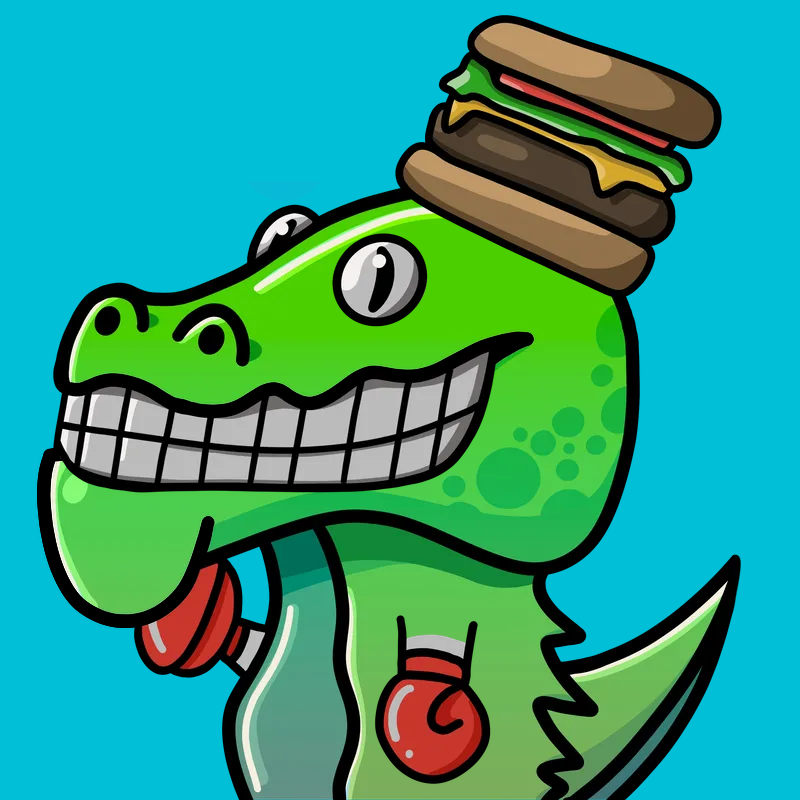
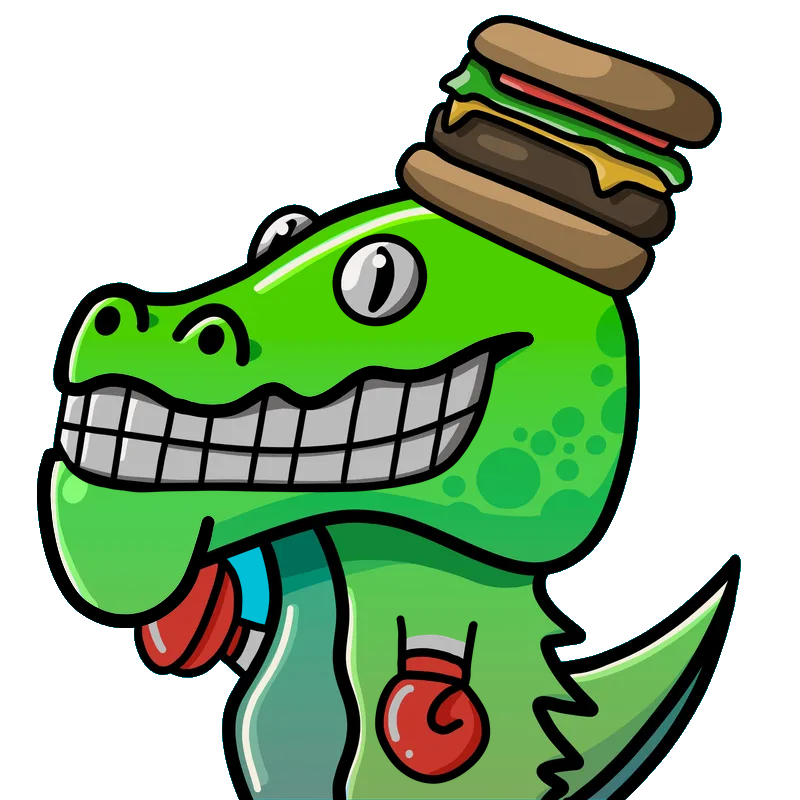
feat: key the machine background off the gator header, paper everywhere
The header gator's flat teal background is removed by a border flood
chroma key (script kept for reruns; original preserved). The creature
now sits directly on the site's paper with a soft silhouette shadow,
matching the monster header. Wall poster recomposited on paper tone.

diff --git a/src/data/exhibits.ts b/src/data/exhibits.ts
@@ -47,6 +47,6 @@ export const exhibits: Exhibit[] = [
     label: "Generative art · 2021",
     line: "10,946 characters from 300+ hand-drawn attributes, minted on Polygon. Build your own from the real layers.",
     image: gatorPoster,
-    alt: "A gator built in the machine: green, grinning, a burger for a hat",
+    alt: "A gator built in the machine, on paper: green, grinning, a burger for a hat",
   },
 ];
